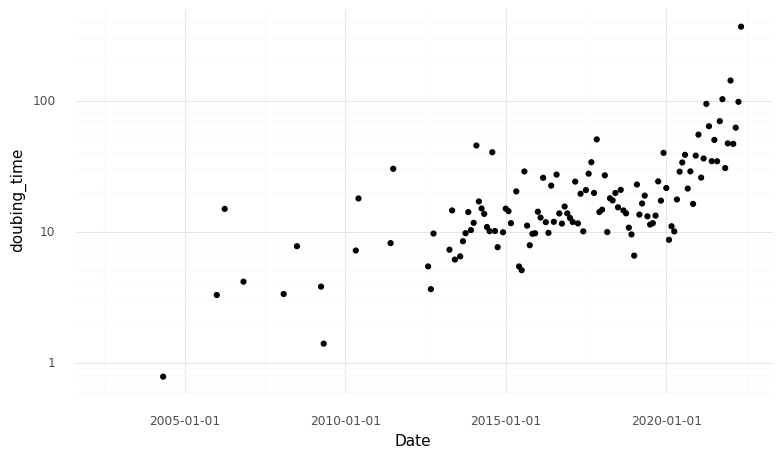
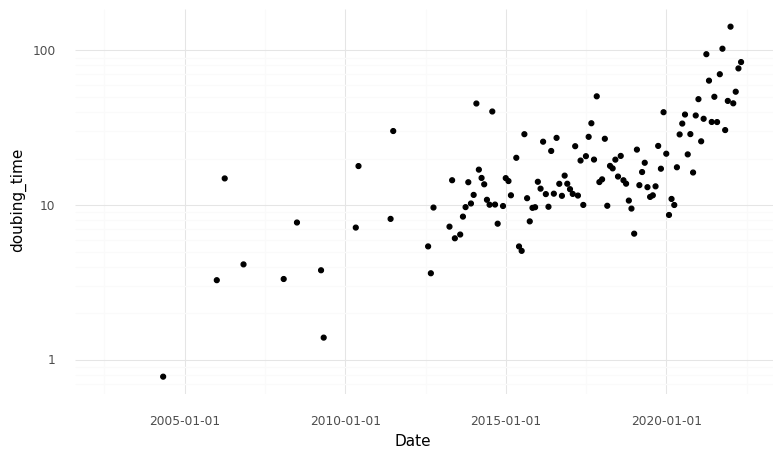
deploy: 6ff2a2cc039a049e4787374480a215e335c52e7d

diff --git a/searchindex.js b/searchindex.js
@@ -1,1 +1,1 @@
-Search.setIndex({docnames:["README","example_analysis"],envversion:{"sphinx.domains.c":2,"sphinx.domains.changeset":1,"sphinx.domains.citation":1,"sphinx.domains.cpp":5,"sphinx.domains.index":1,"sphinx.domains.javascript":2,"sphinx.domains.math":2,"sphinx.domains.python":3,"sphinx.domains.rst":2,"sphinx.domains.std":2,"sphinx.ext.intersphinx":1,sphinx:56},filenames:["README.md","example_analysis.ipynb"],objects:{},objnames:{},objtypes:{},terms:{"0":[0,1],"00":[0,1],"00229":0,"00e7":0,"01":[0,1],"010":1,"011":0,"01e7":0,"02":1,"020":1,"02x":1,"03":[0,1],"04":[0,1],"05":1,"06":[0,1],"063":1,"06t08":0,"07":1,"07t08":0,"08":[0,1],"088421":1,"09":1,"1":[0,1],"10":[0,1],"1016":[0,1],"1030":1,"1031":1,"1032":1,"1033":1,"1034":1,"1035":1,"1038":[0,1],"103978":1,"105700":1,"108":1,"1093":0,"10t08":0,"11":1,"1101":1,"116":1,"118":1,"1186":0,"11t08":0,"12":[0,1],"124":1,"12t08":0,"13":1,"1315":0,"1355585":1,"13892":1,"13t08":0,"14":1,"1471":0,"14t08":0,"15":[0,1],"150599":1,"153":1,"15601":1,"156136":1,"15t08":0,"16":1,"1600":1,"16893":1,"16t08":0,"17":1,"171":1,"174734":1,"17800":1,"179":1,"179891":1,"17t08":0,"18":1,"183092":1,"185":1,"19":1,"1m":1,"2":[0,1],"20":[0,1],"2002":1,"2003":1,"2004":1,"2005":1,"2006":1,"2007":[0,1],"2008":1,"2009":1,"2010":1,"2011":1,"2012":1,"2013":1,"20130101t010101":1,"2014":1,"2015":1,"2016":1,"2017":1,"2018":1,"2019":1,"20190101":1,"20190101t010101":1,"2020":1,"20200101t010101":1,"2021":1,"2022":1,"21":1,"210":1,"2164":0,"22":1,"22000":1,"2332":1,"2334":1,"2335":1,"2336":1,"2343":1,"2344":1,"2345":1,"2346":1,"2347":1,"2348":1,"2349":1,"2350":1,"2351":1,"2352":1,"2353":1,"24375":1,"247":1,"249":0,"25":[0,1],"255":1,"268":0,"27":1,"28":1,"280252":1,"281293":1,"29":1,"298134":1,"3":[0,1],"30":1,"300000":1,"30396":1,"31":1,"31514":1,"32":1,"320871":1,"32590":1,"33":1,"3333":1,"339182":1,"35":1,"35173":1,"36":1,"36044":1,"37":[0,1],"38":1,"382453":1,"390":1,"39657":1,"39895":1,"4":[0,1],"402":1,"40572":1,"410062":1,"410561":1,"42":1,"420":1,"441":1,"45000":1,"46":1,"47":1,"47262":1,"47820":1,"48":[0,1],"49":1,"5":[0,1],"51":1,"53":1,"54":1,"55":1,"56412":1,"568":1,"58":1,"59":1,"596380":1,"6":[0,1],"606":1,"609732":1,"6273":0,"638":1,"66":1,"666657":1,"67":1,"7":1,"736172":1,"756797":1,"772672":1,"7739200":1,"78":1,"781184":1,"79":1,"790":1,"8":[0,1],"8100":1,"828306":1,"8747051959609":1,"8747054773105":1,"8747055002716":1,"8747055166244":1,"8781523743220":1,"8781526119921":1,"8781526126077":1,"8781526191882":1,"8781526480454":1,"8781526510309":1,"8781526524925":1,"8781526536063":1,"8781526613956":1,"8781526696581":1,"8811":1,"884":1,"885":1,"886":1,"887":1,"888":1,"889":1,"890":1,"891":1,"893":1,"9":[0,1],"911579":1,"92":1,"9223363289800396572":1,"95":1,"969883":1,"971059":1,"abstract":1,"break":1,"class":1,"default":[0,1],"do":1,"float":1,"import":[0,1],"int":1,"return":1,"super":[0,1],"true":1,"try":1,A:[0,1],In:[0,1],No:[0,1],The:1,To:0,__init__:1,_openpyxl:1,_or_:1,adhes:1,adrienn:1,ae:1,al:[0,1],alia:1,all:0,all_studi:1,alpha:1,alphabet:1,amp:[0,1],an:0,analysi:0,anni:1,api:1,append:1,appli:1,ar:1,arial:1,arna:0,ascend:1,assign:1,astyp:1,attribut:1,author:[0,1],authors_pct_chang:1,avail:1,b:1,back:1,barbacioru:0,base_famili:1,bc:1,below:0,biorxiv:[0,1],biorxiv_over_tim:1,black:1,blood:1,bmc:0,bmcgenom:0,bone:1,bool:1,brain:1,brainimagelibrari:1,breakdown:1,brian:1,bx_frac:1,c0:1,c1:1,c2:1,c3:1,c4:1,c:1,calci:1,call:1,can:1,cannot:1,cao:0,cat:1,catalin:0,categor:1,categori:1,cells_per_month:1,cells_per_studi:1,chang:1,check:1,chr:0,chromium:1,clr:1,cluster:[0,1],clustering_over_tim:1,clusters_per_cel:1,clusters_per_cells_by_tissu:1,code:0,col:0,col_charact:0,col_doubl:0,col_numb:0,color:1,colorconvert:1,colorsi:1,column:[0,1],com:1,combine_kwarg:1,common:1,commun:1,complet:0,concat:1,config:1,contrast:[0,1],convert:1,copi:[0,1],core:1,count:1,cp:0,cts_:1,cultur:1,curat:[0,1],current:1,d:1,data:[0,1],data_scal:1,data_snapshot_2019:0,databas:0,datafram:1,dataset:1,date:[0,1],date_break:1,date_format:1,datetime_format:1,dbl:0,dcell:1,decemb:1,def:1,dejavu:1,delim:0,deposit:1,devcel:1,development:[0,1],df:1,df_:1,dian:1,dictionari:1,did_biorxiv:1,differ:[0,1],diseas:1,displai:1,divers:1,doi:[0,1],doubing_tim:1,doubling_tim:1,download:1,drop:1,dropna:1,dt:1,dtype:1,each:1,eichhorn:1,els:1,embryo:1,encod:1,end:1,engin:1,engine_kwarg:1,entri:1,error:1,esumi:0,et:[0,1],eun:1,exampl:0,excel:1,excel_writ:1,excelformatt:1,excelwrit:1,exclude_tissu:1,explod:1,ey:1,facet_wrap:1,fall:1,fals:1,famili:1,februari:1,fig:1,figur:[0,1],figure_format:1,figure_s:1,file:[0,1],fill:1,fillna:1,filterwarn:1,findfont:1,fischer:1,fit:1,float64:1,float_format:1,folder:1,follow:1,font:1,font_manag:1,format:1,formatt:1,formula:1,found:1,fr:0,fraction:1,freeze_pan:1,from:1,ftp:1,fuchou:0,full:0,ge:0,gener:[0,1],geo:0,geom_bar:1,geom_lin:1,geom_point:1,georgi:1,get:1,get_coeff_pv:1,get_regression_coeff:1,ggplot:1,gilchrist:0,github:1,gkl050:0,grei:1,group:1,groupbi:1,gs:0,gse14605:0,gse4309:0,gt:1,h5ad:[0,1],h:1,ha:1,he:1,head:[0,1],header:1,heart:1,hex_color:1,hls_to_rgb:1,hostedtoolcach:1,http:[0,1],human:1,i:0,ian:0,id:1,ident:1,idx:1,if_sheet_exist:1,ignor:1,iloc:1,immun:1,immuni:1,immunol:1,index:1,index_label:1,inf:1,inf_rep:1,inlin:1,inlinebackend:1,input:1,instanti:1,instruct:0,int64:1,io:1,isol:[0,1],j:[0,1],januari:1,jason:0,jeong:1,journal:[0,1],justin:1,k:[0,1],kib:0,kidnei:1,kind:1,kur:0,kurimoto:0,kwarg:1,l:1,lab:1,label:1,lambda:1,last:1,lcm:0,le:1,lib:1,librari:0,light:1,lighten:1,line:1,list:1,lm:1,locat:[0,1],log10:1,log:1,look:1,lot:1,ls:0,luan:1,lung:1,m:[0,1],m_idx:1,macaqu:1,make:1,manual:0,manuscript:[0,1],map:1,march:1,marrow:1,matplotlib:1,matplotlibdeprecationwarn:1,me:0,mean:1,measur:[0,1],median:1,median_rna_df:1,meng:1,merfish:1,merg:1,merge_cel:1,meth:0,method:1,michael:0,mizani:1,mode:[0,1],modul:1,modulenotfounderror:1,molecular:1,month:1,monthli:1,monthly_stat:1,more:0,most:1,mous:1,mplcol:1,mrna:0,na:0,na_rep:1,name:1,nan:[0,1],nar:0,nat:[0,1],natur:1,ncol:1,ndframe:1,need_sav:1,neur:0,neuro:0,neuron:0,new_color:1,newest:1,niederrit:1,nmeth:0,none:1,normal:1,notebook:0,novemb:1,np:1,nper:1,nresearch:0,nuclei:0,number:[0,1],numpi:1,nuniqu:1,nxn:[0,1],object:0,obtain:0,octob:1,ol:1,onc:1,onli:1,openpyxl:1,openpyxlwrit:1,oper:0,opt:1,option:1,order:1,org:1,organ:[0,1],organoid:1,other:1,out:0,over:[0,1],p:1,p_:1,packag:1,palett:1,pancrea:1,panda:[0,1],panel:[0,1],param:1,park:1,pars:0,path:1,pca:[0,1],pcr:0,pct_chang:1,pd:[0,1],pdf:1,peng:1,per:1,per_month:1,perfom:1,perform:1,pick:0,pipe:1,pipet:0,pivot:1,platform:0,plot:1,plotnin:1,post:1,pre:1,predict:1,predict_number_celltyp:1,preprint:1,print:1,proce:0,produc:1,programat:0,project:1,proportion:1,pseudoanalysi:1,pseudotim:[0,1],pseudotime_over_tim:1,publish:1,pvalu:1,py:1,pylab:1,python3:1,python:1,q:1,qcut:1,queri:1,r:1,read_csv:[0,1],read_delim:0,readr:0,recent:1,reciproc:1,red:1,remain:1,renam:1,replac:1,report:[0,1],repositori:1,request:1,resampl:1,reset_index:1,retina:1,reveal:[0,1],rgb:1,rgb_to_hl:1,rihel:0,rna:[0,1],rna_df:1,row:0,run:1,s0896:0,s41467:1,s:1,san:1,sar:1,save:1,scale_color_manu:1,scale_fill_brew:1,scale_fill_manu:1,scale_x_datetim:1,scale_x_log10:1,scale_y_log10:1,scienc:1,scrnaseq_studi:1,se:[0,1],see:0,self:1,sep:[0,1],septemb:1,seq2:1,seq:1,sequenc:1,shami:1,shape:1,sheet_nam:1,sheng:0,shigei:0,shigeyuki:0,shorthand:[0,1],sing:0,site:1,situ:1,size:[0,1],skin:1,sm:[0,1],smart:1,smarter:1,smf:1,sort_index:1,sort_valu:1,sourc:[0,1],space:1,spatial:1,spec:0,specif:0,spleen:1,split:1,stage:[0,1],startcol:1,startrow:1,stat:1,stat_smooth:1,statist:1,statsmodel:1,stephen:1,storage_opt:1,str:1,strftime:1,string:1,studies_over_tim:1,studies_per_month:1,subkhank:0,subkhankulova:0,subset:1,sul:0,sum:1,summary_t:1,support:1,supported_extens:1,surgic:1,t:[0,1],t_:1,t_dict:1,tabl:1,tail:[0,1],take:1,tang:0,tatian:0,tatiana:0,tdf:1,tech:1,techniqu:[0,1],techniques_over_tim:1,technolog:1,test:1,testi:1,theme_minim:1,thi:1,thymopoi:1,ti:0,tibbl:0,tidyvers:0,tietjen:0,time:1,timestamp:1,tissu:[0,1],tissue_:1,titl:[0,1],to_datetim:1,to_excel:1,to_fram:1,to_rgb:1,top:1,top_journ:1,top_tissu:1,total:[0,1],traceback:1,tran:0,transcriptom:[0,1],trend:[0,1],trigger:1,trout:1,ts:1,tsne:[0,1],tsne_over_tim:1,tsv:[0,1],tumor:1,type:[0,1],uniqu:1,unique_author:1,unknown:1,url:1,us:1,v0:1,val:1,valu:1,value_count:1,variabl:0,veloc:[0,1],verbos:1,vi:1,vs:1,w:1,wang:0,warn:1,who:1,whole:1,william:1,workbook:1,write:1,write_cel:1,writer:1,wu:0,www:[0,1],x64:1,x:[0,1],xi:0,xian:1,xlsx:1,y:[0,1],yanagawa:0,yangzhou:0,yanxiang:0,ye:1,year:1,yuchio:0,zhang:1,zheng:1,zingg:1},titles:["single-cell-studies","Example analysis notebook - single cell studies database"],titleterms:{With:0,access:0,analysi:1,cell:[0,1],databas:1,exampl:1,gsutil:0,notebook:1,python:0,r:0,singl:[0,1],snapshot:0,studi:[0,1]}})
+Search.setIndex({docnames:["README","example_analysis"],envversion:{"sphinx.domains.c":2,"sphinx.domains.changeset":1,"sphinx.domains.citation":1,"sphinx.domains.cpp":5,"sphinx.domains.index":1,"sphinx.domains.javascript":2,"sphinx.domains.math":2,"sphinx.domains.python":3,"sphinx.domains.rst":2,"sphinx.domains.std":2,"sphinx.ext.intersphinx":1,sphinx:56},filenames:["README.md","example_analysis.ipynb"],objects:{},objnames:{},objtypes:{},terms:{"0":[0,1],"00":[0,1],"00229":0,"00e7":0,"01":[0,1],"010":1,"011":0,"01e7":0,"02":1,"020":1,"02x":1,"03":[0,1],"04":[0,1],"05":1,"06":[0,1],"063":1,"06t08":0,"07":1,"07t08":0,"08":[0,1],"088235":1,"09":1,"1":[0,1],"10":[0,1],"1016":[0,1],"1030":1,"1031":1,"1032":1,"1033":1,"1034":1,"1035":1,"1038":[0,1],"103978":1,"105700":1,"108":1,"1093":0,"10t08":0,"11":1,"1101":1,"116":1,"118":1,"1186":0,"11t08":0,"12":[0,1],"125":1,"12t08":0,"13":1,"1315":0,"1355585":1,"136598":1,"13892":1,"13t08":0,"14":1,"1471":0,"14t08":0,"15":[0,1],"150599":1,"153":1,"15601":1,"156136":1,"15t08":0,"16":1,"1620":1,"16893":1,"16t08":0,"17":1,"171":1,"174734":1,"17800":1,"179891":1,"17t08":0,"18":1,"180":1,"19":1,"190":1,"1m":1,"2":[0,1],"20":[0,1],"2002":1,"2003":1,"2004":1,"2005":1,"2006":1,"2007":[0,1],"2008":1,"2009":1,"2010":1,"2011":1,"2012":1,"2013":1,"20130101t010101":1,"2014":1,"2015":1,"2016":1,"2017":1,"2018":1,"2019":1,"20190101":1,"20190101t010101":1,"2020":1,"20200101t010101":1,"2021":1,"2022":1,"210":1,"2164":0,"22":1,"22000":1,"2332":1,"2334":1,"2335":1,"2336":1,"2343":1,"2344":1,"2345":1,"2346":1,"2347":1,"2348":1,"2349":1,"2350":1,"2351":1,"2352":1,"2353":1,"24506172839506174":1,"249":[0,1],"25":[0,1],"255":1,"268":0,"27":1,"28":1,"280252":1,"281293":1,"29":1,"298134":1,"3":[0,1],"30":1,"300000":1,"30396":1,"31":1,"31514":1,"32":1,"320871":1,"33":1,"33197":1,"3333":1,"339182":1,"35":1,"35173":1,"36":1,"36044":1,"37":[0,1],"37397":1,"38":1,"382453":1,"39657":1,"397":1,"39895":1,"4":[0,1],"402":1,"410062":1,"410561":1,"42":1,"420":1,"441":1,"46":1,"47":1,"47262":1,"48":[0,1],"49":1,"5":[0,1],"51":1,"51233":1,"51656":1,"527692":1,"53":1,"54":1,"55":1,"56412":1,"568":1,"58":1,"59":1,"6":[0,1],"606":1,"609732":1,"61":1,"6273":0,"638":1,"66":1,"666657":1,"68":1,"7":1,"736172":1,"756797":1,"772672":1,"7739200":1,"781184":1,"8":[0,1],"803":1,"8100":1,"82":1,"8740868176698":1,"8740870388438":1,"8740870559338":1,"8740870613002":1,"8740870951855":1,"8740870963444":1,"8740870967513":1,"8740870987527":1,"8740871124890":1,"8740871133338":1,"8747051959609":1,"8747054773105":1,"8747055002716":1,"8747055166244":1,"8811":1,"884":1,"885":1,"886":1,"887":1,"888":1,"889":1,"890":1,"891":1,"893":1,"9":[0,1],"911765":1,"916951":1,"9223363289800396572":1,"93":1,"95":1,"969883":1,"971059":1,"abstract":1,"break":1,"class":1,"default":[0,1],"do":1,"float":1,"import":[0,1],"int":1,"return":1,"super":[0,1],"true":1,"try":1,A:[0,1],In:[0,1],No:[0,1],The:1,To:0,__init__:1,_openpyxl:1,_or_:1,adhes:1,adrienn:1,ae:1,al:[0,1],alia:1,all:0,all_studi:1,alpha:1,alphabet:1,amp:[0,1],an:0,analysi:0,anni:1,api:1,append:1,appli:1,ar:1,arial:1,arna:0,ascend:1,assign:1,astyp:1,attribut:1,author:[0,1],authors_pct_chang:1,avail:1,b:1,back:1,barbacioru:0,base_famili:1,bc:1,below:0,biorxiv:[0,1],biorxiv_over_tim:1,black:1,blood:1,bmc:0,bmcgenom:0,bone:1,bool:1,brain:1,brainimagelibrari:1,breakdown:1,brian:1,bx_frac:1,c0:1,c1:1,c2:1,c3:1,c4:1,c:1,calci:1,call:1,can:1,cannot:1,cao:0,cat:1,catalin:0,categor:1,categori:1,cells_per_month:1,cells_per_studi:1,chang:1,check:1,chr:0,chromium:1,clr:1,cluster:[0,1],clustering_over_tim:1,clusters_per_cel:1,clusters_per_cells_by_tissu:1,code:0,col:0,col_charact:0,col_doubl:0,col_numb:0,color:1,colorconvert:1,colorsi:1,column:[0,1],com:1,combine_kwarg:1,common:1,commun:1,complet:0,concat:1,config:1,contrast:[0,1],convert:1,copi:[0,1],core:1,count:1,cp:0,cts_:1,cultur:1,curat:[0,1],current:1,d:1,data:[0,1],data_scal:1,data_snapshot_2019:0,databas:0,datafram:1,dataset:1,date:[0,1],date_break:1,date_format:1,datetime_format:1,dbl:0,dcell:1,decemb:1,def:1,dejavu:1,delim:0,deposit:1,devcel:1,development:[0,1],df:1,df_:1,dian:1,dictionari:1,did_biorxiv:1,differ:[0,1],diseas:1,displai:1,divers:1,doi:[0,1],doubing_tim:1,doubling_tim:1,download:1,drop:1,dropna:1,dt:1,dtype:1,each:1,eichhorn:1,els:1,embryo:1,encod:1,end:1,engin:1,engine_kwarg:1,entri:1,error:1,esumi:0,et:[0,1],eun:1,exampl:0,excel:1,excel_writ:1,excelformatt:1,excelwrit:1,exclude_tissu:1,explod:1,ey:1,facet_wrap:1,fall:1,fals:1,famili:1,februari:1,fig:1,figur:[0,1],figure_format:1,figure_s:1,file:[0,1],fill:1,fillna:1,filterwarn:1,findfont:1,fischer:1,fit:1,float64:1,float_format:1,folder:1,follow:1,font:1,font_manag:1,format:1,formatt:1,formula:1,found:1,fr:0,fraction:1,freeze_pan:1,from:1,ftp:1,fuchou:0,full:0,ge:0,gener:[0,1],geo:0,geom_bar:1,geom_lin:1,geom_point:1,georgi:1,get:1,get_coeff_pv:1,get_regression_coeff:1,ggplot:1,gilchrist:0,github:1,gkl050:0,grei:1,group:1,groupbi:1,gs:0,gse14605:0,gse4309:0,gt:1,h5ad:[0,1],h:1,ha:1,he:1,head:[0,1],header:1,heart:1,hex_color:1,hls_to_rgb:1,hostedtoolcach:1,http:[0,1],human:1,i:0,ian:0,id:1,ident:1,idx:1,if_sheet_exist:1,ignor:1,iloc:1,immun:1,immuni:1,immunol:1,index:1,index_label:1,inf:1,inf_rep:1,inlin:1,inlinebackend:1,input:1,instanti:1,instruct:0,int64:1,io:1,isol:[0,1],j:[0,1],januari:1,jason:0,jeong:1,journal:[0,1],justin:1,k:[0,1],kib:0,kidnei:1,kind:1,kur:0,kurimoto:0,kwarg:1,l:1,lab:1,label:1,lambda:1,last:1,lcm:0,le:1,lib:1,librari:0,light:1,lighten:1,line:1,list:1,lm:1,locat:[0,1],log10:1,log:1,look:1,lot:1,ls:0,luan:1,lung:1,m:[0,1],m_idx:1,macaqu:1,make:1,manual:0,manuscript:[0,1],map:1,march:1,marrow:1,matplotlib:1,matplotlibdeprecationwarn:1,me:0,mean:1,measur:[0,1],median:1,median_rna_df:1,meng:1,merfish:1,merg:1,merge_cel:1,meth:0,method:1,michael:0,mizani:1,mode:[0,1],modul:1,modulenotfounderror:1,molecular:1,month:1,monthli:1,monthly_stat:1,more:0,most:1,mous:1,mplcol:1,mrna:0,na:0,na_rep:1,name:1,nan:[0,1],nar:0,nat:[0,1],natur:1,ncol:1,ndframe:1,need_sav:1,neur:0,neuro:0,neuron:0,new_color:1,newest:1,niederrit:1,nmeth:0,none:1,normal:1,notebook:0,novemb:1,np:1,nper:1,nresearch:0,nuclei:0,number:[0,1],numpi:1,nuniqu:1,nxn:[0,1],object:0,obtain:0,octob:1,ol:1,onc:1,onli:1,openpyxl:1,openpyxlwrit:1,oper:0,opt:1,option:1,order:1,org:1,organ:[0,1],organoid:1,other:1,out:0,over:[0,1],p:1,p_:1,packag:1,palett:1,pancrea:1,panda:[0,1],panel:[0,1],param:1,park:1,pars:0,path:1,pca:[0,1],pcr:0,pct_chang:1,pd:[0,1],pdf:1,peng:1,per:1,per_month:1,perfom:1,perform:1,pick:0,pipe:1,pipet:0,pivot:1,platform:0,plot:1,plotnin:1,post:1,pre:1,predict:1,predict_number_celltyp:1,preprint:1,print:1,proce:0,produc:1,programat:0,project:1,proportion:1,pseudoanalysi:1,pseudotim:[0,1],pseudotime_over_tim:1,publish:1,pvalu:1,py:1,pylab:1,python3:1,python:1,q:1,qcut:1,queri:1,r:1,read_csv:[0,1],read_delim:0,readr:0,recent:1,reciproc:1,red:1,remain:1,renam:1,replac:1,report:[0,1],repositori:1,request:1,resampl:1,reset_index:1,retina:1,reveal:[0,1],rgb:1,rgb_to_hl:1,rihel:0,rna:[0,1],rna_df:1,row:0,run:1,s0896:0,s41467:1,s:1,san:1,sar:1,save:1,scale_color_manu:1,scale_fill_brew:1,scale_fill_manu:1,scale_x_datetim:1,scale_x_log10:1,scale_y_log10:1,scienc:1,scrnaseq_studi:1,se:[0,1],see:0,self:1,sep:[0,1],septemb:1,seq2:1,seq:1,sequenc:1,shami:1,shape:1,sheet_nam:1,sheng:0,shigei:0,shigeyuki:0,shorthand:[0,1],sing:0,site:1,situ:1,size:[0,1],skin:1,sm:[0,1],smart:1,smarter:1,smf:1,sort_index:1,sort_valu:1,sourc:[0,1],space:1,spatial:1,spec:0,specif:0,spleen:1,split:1,stage:[0,1],startcol:1,startrow:1,stat:1,stat_smooth:1,statist:1,statsmodel:1,stephen:1,storage_opt:1,str:1,strftime:1,string:1,studies_over_tim:1,studies_per_month:1,subkhank:0,subkhankulova:0,subset:1,sul:0,sum:1,summary_t:1,support:1,supported_extens:1,surgic:1,t:[0,1],t_:1,t_dict:1,tabl:1,tail:[0,1],take:1,tang:0,tatian:0,tatiana:0,tdf:1,tech:1,techniqu:[0,1],techniques_over_tim:1,technolog:1,test:1,testi:1,theme_minim:1,thi:1,thymopoi:1,ti:0,tibbl:0,tidyvers:0,tietjen:0,time:1,timestamp:1,tissu:[0,1],tissue_:1,titl:[0,1],to_datetim:1,to_excel:1,to_fram:1,to_rgb:1,top:1,top_journ:1,top_tissu:1,total:[0,1],traceback:1,tran:0,transcriptom:[0,1],trend:[0,1],trigger:1,trout:1,ts:1,tsne:[0,1],tsne_over_tim:1,tsv:[0,1],tumor:1,type:[0,1],uniqu:1,unique_author:1,unknown:1,url:1,us:1,v0:1,val:1,valu:1,value_count:1,variabl:0,veloc:[0,1],verbos:1,vi:1,vs:1,w:1,wang:0,warn:1,who:1,whole:1,william:1,workbook:1,write:1,write_cel:1,writer:1,wu:0,www:[0,1],x64:1,x:[0,1],xi:0,xian:1,xlsx:1,y:[0,1],yanagawa:0,yangzhou:0,yanxiang:0,ye:1,year:1,yuchio:0,zhang:1,zheng:1,zingg:1},titles:["single-cell-studies","Example analysis notebook - single cell studies database"],titleterms:{With:0,access:0,analysi:1,cell:[0,1],databas:1,exampl:1,gsutil:0,notebook:1,python:0,r:0,singl:[0,1],snapshot:0,studi:[0,1]}})

diff --git a/example_analysis.html b/example_analysis.html
@@ -267,7 +267,7 @@ const thebe_selector_output = ".output, .cell_output"
 </div>
 </div>
 <div class="cell_output docutils container">
-<div class="output stream highlight-myst-ansi notranslate"><div class="highlight"><pre><span></span>(1600, 28)
+<div class="output stream highlight-myst-ansi notranslate"><div class="highlight"><pre><span></span>(1620, 28)
 </pre></div>
 </div>
 </div>
@@ -400,7 +400,7 @@ const thebe_selector_output = ".output, .cell_output"
 </div>
 <div class="cell_output docutils container">
 <img alt="_images/example_analysis_8_0.png" src="_images/example_analysis_8_0.png" />
-<div class="output text_plain highlight-myst-ansi notranslate"><div class="highlight"><pre><span></span>&lt;ggplot: (8781526480454)&gt;
+<div class="output text_plain highlight-myst-ansi notranslate"><div class="highlight"><pre><span></span>&lt;ggplot: (8740870963444)&gt;
 </pre></div>
 </div>
 </div>
@@ -447,7 +447,7 @@ const thebe_selector_output = ".output, .cell_output"
 </pre></div>
 </div>
 <img alt="_images/example_analysis_10_1.png" src="_images/example_analysis_10_1.png" />
-<div class="output text_plain highlight-myst-ansi notranslate"><div class="highlight"><pre><span></span>&lt;ggplot: (8781526696581)&gt;
+<div class="output text_plain highlight-myst-ansi notranslate"><div class="highlight"><pre><span></span>&lt;ggplot: (8740871133338)&gt;
 </pre></div>
 </div>
 </div>
@@ -459,8 +459,8 @@ const thebe_selector_output = ".output, .cell_output"
 </div>
 </div>
 <div class="cell_output docutils container">
-<div class="output text_plain highlight-myst-ansi notranslate"><div class="highlight"><pre><span></span>Yes    0.911579
-No     0.088421
+<div class="output text_plain highlight-myst-ansi notranslate"><div class="highlight"><pre><span></span>Yes    0.911765
+No     0.088235
 Name: Cell clustering, dtype: float64
 </pre></div>
 </div>
@@ -502,7 +502,7 @@ Name: Cell clustering, dtype: float64
 </div>
 <div class="cell_output docutils container">
 <img alt="_images/example_analysis_12_0.png" src="_images/example_analysis_12_0.png" />
-<div class="output text_plain highlight-myst-ansi notranslate"><div class="highlight"><pre><span></span>&lt;ggplot: (8781526191882)&gt;
+<div class="output text_plain highlight-myst-ansi notranslate"><div class="highlight"><pre><span></span>&lt;ggplot: (8740870613002)&gt;
 </pre></div>
 </div>
 </div>
@@ -543,7 +543,7 @@ Name: Cell clustering, dtype: float64
 </div>
 <div class="cell_output docutils container">
 <img alt="_images/example_analysis_13_0.png" src="_images/example_analysis_13_0.png" />
-<div class="output text_plain highlight-myst-ansi notranslate"><div class="highlight"><pre><span></span>&lt;ggplot: (8781526126077)&gt;
+<div class="output text_plain highlight-myst-ansi notranslate"><div class="highlight"><pre><span></span>&lt;ggplot: (8740870559338)&gt;
 </pre></div>
 </div>
 </div>
@@ -584,7 +584,7 @@ Name: Cell clustering, dtype: float64
 </div>
 <div class="cell_output docutils container">
 <img alt="_images/example_analysis_16_0.png" src="_images/example_analysis_16_0.png" />
-<div class="output text_plain highlight-myst-ansi notranslate"><div class="highlight"><pre><span></span>&lt;ggplot: (8781526524925)&gt;
+<div class="output text_plain highlight-myst-ansi notranslate"><div class="highlight"><pre><span></span>&lt;ggplot: (8740870967513)&gt;
 </pre></div>
 </div>
 </div>
@@ -728,17 +728,17 @@ Name: Cell clustering, dtype: float64
     <tr>
       <th>18</th>
       <td>2020</td>
-      <td>18.596380</td>
+      <td>18.527692</td>
     </tr>
     <tr>
       <th>19</th>
       <td>2021</td>
-      <td>46.828306</td>
+      <td>46.916951</td>
     </tr>
     <tr>
       <th>20</th>
       <td>2022</td>
-      <td>79.183092</td>
+      <td>61.136598</td>
     </tr>
   </tbody>
 </table>
@@ -758,7 +758,7 @@ Name: Cell clustering, dtype: float64
 </div>
 <div class="cell_output docutils container">
 <img alt="_images/example_analysis_19_0.png" src="_images/example_analysis_19_0.png" />
-<div class="output text_plain highlight-myst-ansi notranslate"><div class="highlight"><pre><span></span>&lt;ggplot: (8781526613956)&gt;
+<div class="output text_plain highlight-myst-ansi notranslate"><div class="highlight"><pre><span></span>&lt;ggplot: (8740870388438)&gt;
 </pre></div>
 </div>
 </div>
@@ -787,7 +787,7 @@ Name: Cell clustering, dtype: float64
 </div>
 <div class="cell_output docutils container">
 <img alt="_images/example_analysis_21_0.png" src="_images/example_analysis_21_0.png" />
-<div class="output text_plain highlight-myst-ansi notranslate"><div class="highlight"><pre><span></span>&lt;ggplot: (8781523743220)&gt;
+<div class="output text_plain highlight-myst-ansi notranslate"><div class="highlight"><pre><span></span>&lt;ggplot: (8740868176698)&gt;
 </pre></div>
 </div>
 </div>
@@ -834,12 +834,12 @@ Name: Cell clustering, dtype: float64
     <tr>
       <th>0</th>
       <td>bioRxiv</td>
-      <td>185</td>
+      <td>190</td>
     </tr>
     <tr>
       <th>1</th>
       <td>Nat Commun</td>
-      <td>124</td>
+      <td>125</td>
     </tr>
     <tr>
       <th>2</th>
@@ -854,12 +854,12 @@ Name: Cell clustering, dtype: float64
     <tr>
       <th>4</th>
       <td>Cell Reports</td>
-      <td>92</td>
+      <td>93</td>
     </tr>
     <tr>
       <th>5</th>
       <td>Science</td>
-      <td>67</td>
+      <td>68</td>
     </tr>
     <tr>
       <th>6</th>
@@ -913,17 +913,17 @@ Name: Cell clustering, dtype: float64
     <tr>
       <th>0</th>
       <td>Brain</td>
-      <td>247</td>
+      <td>249</td>
     </tr>
     <tr>
       <th>1</th>
       <td>Culture</td>
-      <td>179</td>
+      <td>180</td>
     </tr>
     <tr>
       <th>2</th>
       <td>Blood</td>
-      <td>78</td>
+      <td>82</td>
     </tr>
     <tr>
       <th>3</th>
@@ -962,11 +962,11 @@ Name: Cell clustering, dtype: float64
 </div>
 </div>
 <div class="cell_output docutils container">
-<div class="output stream highlight-myst-ansi notranslate"><div class="highlight"><pre><span></span>Unknown    790
+<div class="output stream highlight-myst-ansi notranslate"><div class="highlight"><pre><span></span>Unknown    803
 No         420
-Yes        390
+Yes        397
 Name: did_bioRxiv, dtype: int64
-Fraction of studies in biorxiv: 0.24375
+Fraction of studies in biorxiv: 0.24506172839506174
 </pre></div>
 </div>
 </div>
@@ -1017,7 +1017,7 @@ Fraction of studies in biorxiv: 0.24375
 </div>
 <div class="cell_output docutils container">
 <img alt="_images/example_analysis_26_0.png" src="_images/example_analysis_26_0.png" />
-<div class="output text_plain highlight-myst-ansi notranslate"><div class="highlight"><pre><span></span>&lt;ggplot: (8781526536063)&gt;
+<div class="output text_plain highlight-myst-ansi notranslate"><div class="highlight"><pre><span></span>&lt;ggplot: (8740870951855)&gt;
 </pre></div>
 </div>
 </div>
@@ -1034,11 +1034,11 @@ Fraction of studies in biorxiv: 0.24375
 </div>
 </div>
 <div class="cell_output docutils container">
-<div class="output stream highlight-myst-ansi notranslate"><div class="highlight"><pre><span></span>Unknown    790
+<div class="output stream highlight-myst-ansi notranslate"><div class="highlight"><pre><span></span>Unknown    803
 No         420
-Yes        390
+Yes        397
 Name: did_bioRxiv, dtype: int64
-Fraction of studies in biorxiv: 0.24375
+Fraction of studies in biorxiv: 0.24506172839506174
 </pre></div>
 </div>
 </div>
@@ -1089,27 +1089,27 @@ Fraction of studies in biorxiv: 0.24375
   <tbody>
     <tr>
       <th>2022-04-30</th>
-      <td>1.0</td>
+      <td>6.0</td>
       <td>0.0</td>
-      <td>1.0</td>
+      <td>5.0</td>
     </tr>
     <tr>
       <th>2022-03-31</th>
-      <td>1.0</td>
-      <td>0.0</td>
       <td>2.0</td>
+      <td>0.0</td>
+      <td>7.0</td>
     </tr>
     <tr>
       <th>2022-02-28</th>
-      <td>8.0</td>
-      <td>0.0</td>
       <td>9.0</td>
+      <td>0.0</td>
+      <td>11.0</td>
     </tr>
     <tr>
       <th>2022-01-31</th>
       <td>8.0</td>
       <td>0.0</td>
-      <td>21.0</td>
+      <td>22.0</td>
     </tr>
     <tr>
       <th>2021-12-31</th>
@@ -1195,7 +1195,7 @@ Fraction of studies in biorxiv: 0.24375
 </div>
 <div class="cell_output docutils container">
 <img alt="_images/example_analysis_31_0.png" src="_images/example_analysis_31_0.png" />
-<div class="output text_plain highlight-myst-ansi notranslate"><div class="highlight"><pre><span></span>&lt;ggplot: (8781526119921)&gt;
+<div class="output text_plain highlight-myst-ansi notranslate"><div class="highlight"><pre><span></span>&lt;ggplot: (8740871124890)&gt;
 </pre></div>
 </div>
 </div>
@@ -1250,7 +1250,7 @@ Fraction of studies in biorxiv: 0.24375
 </div>
 <div class="cell_output docutils container">
 <img alt="_images/example_analysis_34_0.png" src="_images/example_analysis_34_0.png" />
-<div class="output text_plain highlight-myst-ansi notranslate"><div class="highlight"><pre><span></span>&lt;ggplot: (8781526510309)&gt;
+<div class="output text_plain highlight-myst-ansi notranslate"><div class="highlight"><pre><span></span>&lt;ggplot: (8740870987527)&gt;
 </pre></div>
 </div>
 </div>
@@ -1310,7 +1310,7 @@ Fraction of studies in biorxiv: 0.24375
     <tr>
       <th>2</th>
       <td>2021-11-30</td>
-      <td>40572</td>
+      <td>51656</td>
     </tr>
     <tr>
       <th>3</th>
@@ -1320,17 +1320,17 @@ Fraction of studies in biorxiv: 0.24375
     <tr>
       <th>4</th>
       <td>2022-01-31</td>
-      <td>32590</td>
+      <td>33197</td>
     </tr>
     <tr>
       <th>5</th>
       <td>2022-02-28</td>
-      <td>47820</td>
+      <td>37397</td>
     </tr>
     <tr>
       <th>6</th>
       <td>2022-03-31</td>
-      <td>45000</td>
+      <td>51233</td>
     </tr>
   </tbody>
 </table>
@@ -1400,17 +1400,17 @@ Fraction of studies in biorxiv: 0.24375
     <tr>
       <th>4</th>
       <td>2022-01-31</td>
-      <td>27</td>
+      <td>28</td>
     </tr>
     <tr>
       <th>5</th>
       <td>2022-02-28</td>
-      <td>16</td>
+      <td>19</td>
     </tr>
     <tr>
       <th>6</th>
       <td>2022-03-31</td>
-      <td>2</td>
+      <td>8</td>
     </tr>
   </tbody>
 </table>
@@ -1471,7 +1471,7 @@ Fraction of studies in biorxiv: 0.24375
       <th>2</th>
       <td>November 2021</td>
       <td>22</td>
-      <td>40572</td>
+      <td>51656</td>
     </tr>
     <tr>
       <th>3</th>
@@ -1482,20 +1482,20 @@ Fraction of studies in biorxiv: 0.24375
     <tr>
       <th>4</th>
       <td>January 2022</td>
-      <td>27</td>
-      <td>32590</td>
+      <td>28</td>
+      <td>33197</td>
     </tr>
     <tr>
       <th>5</th>
       <td>February 2022</td>
-      <td>16</td>
-      <td>47820</td>
+      <td>19</td>
+      <td>37397</td>
     </tr>
     <tr>
       <th>6</th>
       <td>March 2022</td>
-      <td>2</td>
-      <td>45000</td>
+      <td>8</td>
+      <td>51233</td>
     </tr>
   </tbody>
 </table>
